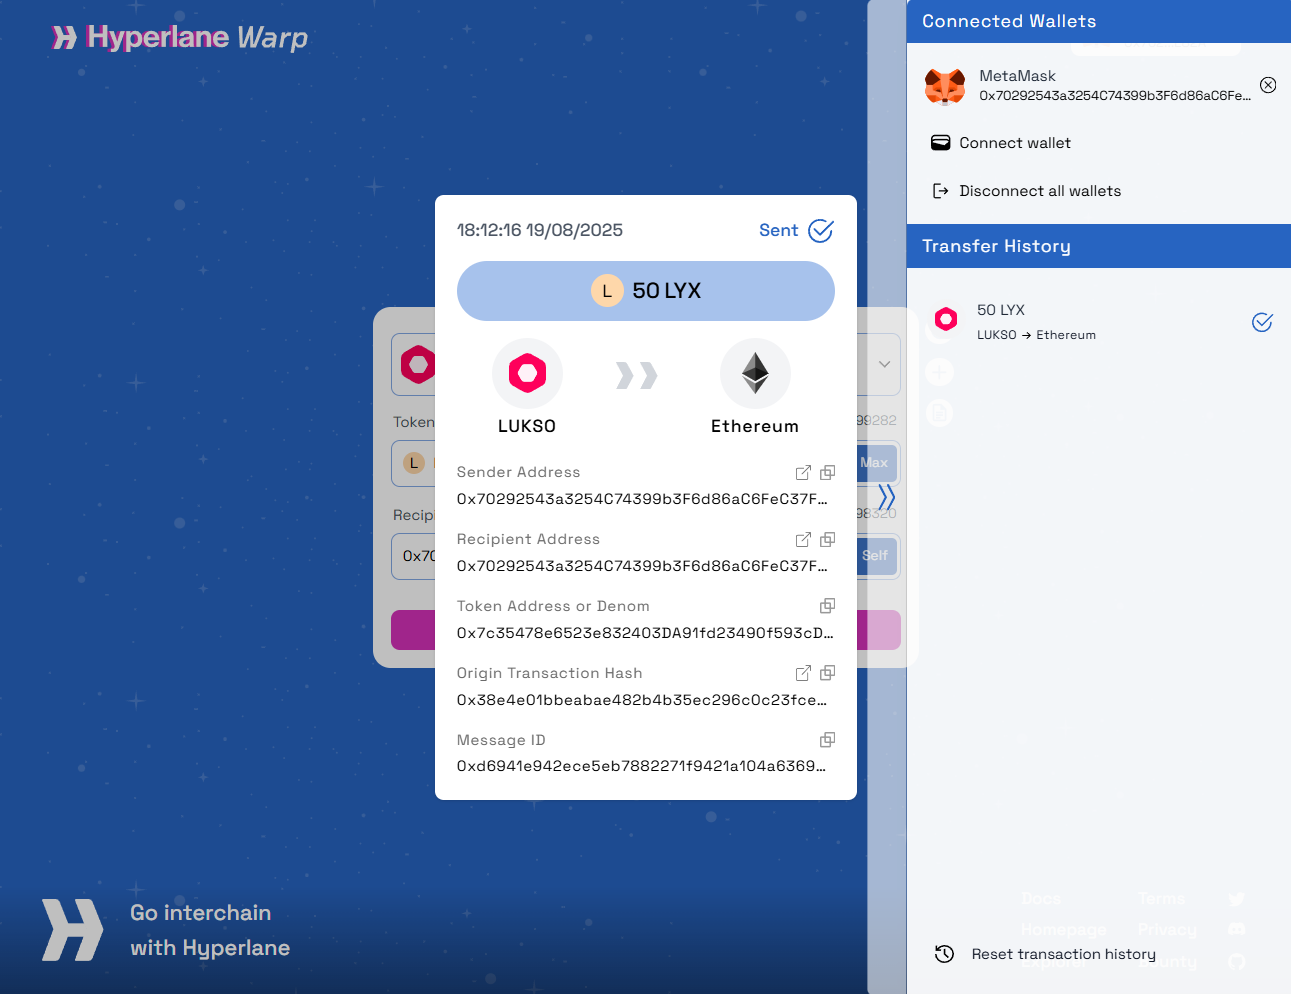
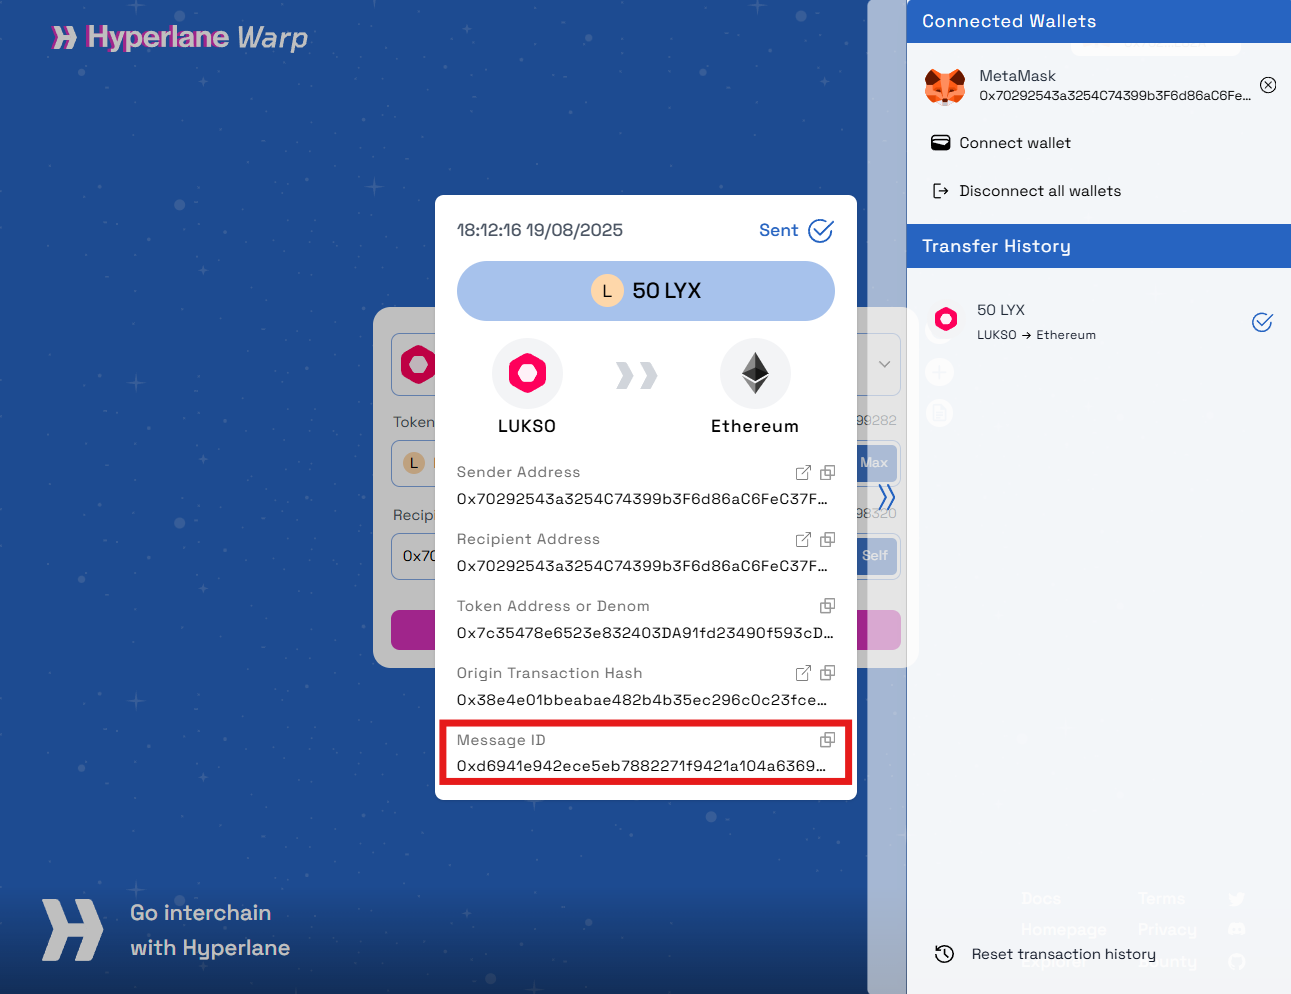
refactor: final adjustements + polished screenshots

Changed region(s): [[0.3408, 0.7173, 0.6816, 0.8109]]

diff --git a/src/components/ImportTokenSection/ImportTokenSection.module.scss b/src/components/ImportTokenSection/ImportTokenSection.module.scss
@@ -82,8 +82,12 @@
 }
 
 @keyframes spin {
-  0% { transform: rotate(0deg); }
-  100% { transform: rotate(360deg); }
+  0% {
+    transform: rotate(0deg);
+  }
+  100% {
+    transform: rotate(360deg);
+  }
 }
 
 // Status message styles
@@ -142,7 +146,8 @@
   box-shadow: 0 2px 8px rgba(0, 0, 0, 0.1);
   background: white;
 
-  th, td {
+  th,
+  td {
     padding: 16px;
     text-align: left;
     border-bottom: 1px solid #e2e8f0;
@@ -165,8 +170,6 @@
   tr:last-child td {
     border-bottom: none;
   }
-
-
 }
 
 .networkName {
@@ -178,21 +181,20 @@
 
 .contractAddress {
   font-family: 'Monaco', 'Menlo', 'Ubuntu Mono', monospace;
-  
+
   a {
     color: inherit;
     text-decoration: none;
-    
+
     &:hover {
       text-decoration: underline;
     }
   }
-  
+
   code {
     background: #f1f5f9;
     padding: 4px 8px;
     border-radius: 4px;
-    font-size: 12px;
     color: #475569;
     word-break: break-all;
   }
@@ -208,7 +210,7 @@
     font-size: 14px;
   }
 
-  .tokenTable th, 
+  .tokenTable th,
   .tokenTable td {
     padding: 12px 8px;
   }
@@ -286,7 +288,7 @@
   }
 
   .tokenTable td:before {
-    content: attr(data-label) ": ";
+    content: attr(data-label) ': ';
     position: absolute;
     left: 0;
     width: 30%;
@@ -297,15 +299,15 @@
   }
 
   .networkName:before {
-    content: "Network: ";
+    content: 'Network: ';
   }
 
   .contractAddress:before {
-    content: "Address: ";
+    content: 'Address: ';
   }
 
   .importButtonCell:before {
-    content: "";
+    content: '';
   }
 
   .importButtonCell {

diff --git a/src/components/ImportTokenSection/index.js b/src/components/ImportTokenSection/index.js
@@ -113,9 +113,8 @@ const ImportTokenSection = () => {
       <table className={styles.tokenTable}>
         <thead>
           <tr>
-            <th>Network Name</th>
-            <th>Bridged LYX Contract Address</th>
-            <th></th>
+            <th>Network</th>
+            <th colspan="2">Bridged LYX Contract Address</th>
           </tr>
         </thead>
         <tbody>

diff --git a/docs/general/how-to/use-lukso-bridge.md b/docs/general/how-to/use-lukso-bridge.md
@@ -9,159 +9,168 @@ import TabItem from '@theme/TabItem';
 
 # Use the LUKSO Bridge
 
-![Bridge UI](../../../static/img/general/how-to/use-lukso-bridge/bridge_home.png)
+<!-- TODO: put video demo of bridging -->
+<!-- ![Bridge UI](../../../static/img/general/how-to/use-lukso-bridge/bridge_home.png) -->
 
-This guide is for understanding how bridging works <strong>from</strong> and <strong>to</strong> LUKSO Network.
+This page will guide you on how to use the Hyperlane NEXUS dApp to bridge assets from and to the LUKSO Network.
+
+:::danger Warning
+
+**When bridging from LUKSO to other chains, DO NOT enter a UP address as the `recipient`**.
+
+Otherwise, you will lose access to your bridged tokens on Ethereum (or the destination chain you have selected). This is because Universal Profiles are currently only available on the LUKSO network.
+
+:::
 
 ## Prerequisites
 
-Before using the bridge, ensure you have:
+Before using the Hyperlane bridge, ensure you have:
 
-1. **A Web3 Wallet**: MetaMask, Rabby, or another compatible wallet
-2. **Network Configuration**: The correct network added to your wallet
-3. **Native Tokens for**:
-   - the amount you want to bridge
+1. **A Web3 Wallet**: MetaMask, Rabby, or any other compatible EVM wallet.
+2. **Network Configuration**: The correct network added to your wallet.
+3. **Native Tokens** (Ethereum mainnet requires ETH, LUKSO Mainnet requires LYX):
    - to pay for the gas fees
-   - to pay for the processing fee (Interchain Gas Payment)
+   - to pay for the processing fee ([Interchain Gas Payment](https://docs.hyperlane.xyz/docs/protocol/core/interchain-gas-payment#interchain-gas-payments))
 
-## How to Bridge Tokens
+<details>
+  <summary>What is the Interchain Gas Payment?</summary>
 
-**Visit [_Hyperlane NEXUS_](https://usenexus.org/) page** : Make sure to visit the official webpage:
+When performing a bridge transaction, Hyperlane require users to pay a processing fee called an _“interchain gas payment”_ (IGP) in the form of native tokens.
+
+These funds go directly to Hyperlane relayers that use them to pay for the gas fee when processing the final bridge transaction on the destination chain.
+
+Users can see the IGP amount required to pay in the UI before confirming the bridge transaction.
+
+Note that these fees are not accumulated by any specific parties. They are cross-chain bridging fee part of the Hyperlane cross-chain messaging protocol and solely used for processing bridge transactions.
+
+</details>
+
+## Go to [_Hyperlane NEXUS Bridge dApp_](https://usenexus.org/?origin=lukso&destination=ethereum&token=0xC210B2cB65ed3484892167F5e05F7ab496Ab0598)
 
 :::info
-LUKSO uses the Hyperlane's NEXUS Bridge for the bridging to/from LUKSO Mainnet.
+LUKSO uses the Hyperlane NEXUS Bridge dApp for bridging from/to LUKSO Mainnet.
+
+**Make sure to visit the official webpage at** [https://usenexus.org](https://usenexus.org)
 :::
 
 ![Bridge UI](../../../static/img/general/how-to/use-lukso-bridge/bridge_home.png)
 
-:::danger Important
+## How to bridge?
 
-As Universal Profiles are currently only available on LUKSO, please do not enter a UP address as the <strong>recipient</strong> when bridging from LUKSO to other networks.
+<Tabs>
+  <TabItem value="eoa" label={<h3>👝 Bridging from a web3 wallet</h3>} default>
+
+**1. Connect Your Wallet**: Connect your Web3 wallet (MetaMask, Rabby, etc.) to the bridge interface
+
+:::info
+
+Make sure you have the [LUKSO Mainnet added to your network in your wallet](/general/supported-wallets/wallet-support.md#is-there-a-faster-way).
 
 :::
 
-### Are you ⤵
+![Bridge UI](../../../static/img/general/how-to/use-lukso-bridge/bridge_connect_eoa.png)
 
-<Tabs>
-  <TabItem value="eoa" label={<h3>🌉 Bridging from another Web3 wallet?</h3>} default>
+**2. Select Networks**: Choose the **from** (source) and **to** (destination) networks
 
-1. **Connect Your Wallet**: Connect your Web3 wallet (MetaMask, Rabby, etc.) to the bridge interface
-   ![Bridge UI](../../../static/img/general/how-to/use-lukso-bridge/eoa_home.png)
+![Bridge UI](../../../static/img/general/how-to/use-lukso-bridge/eoa_from_to.png)
 
----
+**3. Select Tokens from the dropdown list**: Select **`LYX`**
 
-2. **Select Networks**: Choose the **from**(source) and **to**(destination) networks
-   ![Bridge UI](../../../static/img/general/how-to/use-lukso-bridge/eoa_from_to.png)
+![Bridge UI](../../../static/img/general/how-to/use-lukso-bridge/eoa_token.png)
 
----
+**4. Enter Amount**: Specify the amount of tokens to bridge
 
-3. **Select Tokens from the dropdown list**: Select **LYX**
-   ![Bridge UI](../../../static/img/general/how-to/use-lukso-bridge/eoa_token.png)
+![Bridge UI](../../../static/img/general/how-to/use-lukso-bridge/eoa_amount.png)
 
----
-
-4. **Enter Amount**: Specify the amount of tokens to bridge
-   ![Bridge UI](../../../static/img/general/how-to/use-lukso-bridge/eoa_amount.png)
-
----
-
-5. **Enter the Recipient Address**: Input the destination wallet address where tokens will be sent. Use the <strong>Self</strong> button if you're going to use the same wallet on the destination network.
+**5. Enter the Recipient Address**: Input the address of the wallet that will receive the tokens on the destination chain. You can also use the <strong>Self</strong> button if you want to bridge to the same wallet on the destination network.
 
 :::danger Using UP address as a recipient
 
-If you are not bridging <strong>to LUKSO</strong>, please do not use a Universal Profile address as a recipient!
+If you are bridging from LUKSO -> to Ethereum (or any other chain), **DO NOT use a Universal Profile address as `recipient`!** This would lead to losing access to your bridged tokens on the destination chain.
+
 :::
 
 ![Bridge UI](../../../static/img/general/how-to/use-lukso-bridge/eoa_destination.png)
 
----
+**6. Confirm Transaction**: Review and confirm the transaction in your wallet
 
-6. **Confirm Transaction**: Review and confirm the transaction in your wallet
+![Bridge UI](../../../static/img/general/how-to/use-lukso-bridge/eoa_send.png)
 
-   ![Bridge UI](../../../static/img/general/how-to/use-lukso-bridge/eoa_send.png)
+**7. Follow the status of your bridge transaction**: Bridge transactions typically take a few minutes
 
----
+:::tip Check the status of your transaction
 
-7. **Follow your status**: Bridge transactions typically take a few minutes
+Visit the [🔍 Hyperlane Explorer](https://explorer.hyperlane.xyz/?origin=lukso), select LUKSO as _"Origin"_ and paste your Message ID to find your bridge transaction and see its status (if it is still being processed or it has been delivered on the destination chain).
 
-:::tip Check your status
-Visit [Hyperlane Explorer](https://explorer.hyperlane.xyz/) with your Message ID to see the status of your transaction.
 :::
 
 ![Bridge UI](../../../static/img/general/how-to/use-lukso-bridge/eoa_message.png)
 
----
+![Bridge UI](../../../static/img/general/how-to/use-lukso-bridge/hyperlane_explorer_message_id_field.png)
 
-8. **Import Token**: Use the buttons [**below**](#import-bridged-lyx-hyperlane) to add the bridged token to your wallet
+![Bridge UI](../../../static/img/general/how-to/use-lukso-bridge/hyperlane_explorer_bridge_tx_details.png)
 
   </TabItem>
-  <TabItem value="up" label={<h3>Bridging from a 🆙?</h3>}>
+  <TabItem value="up" label={<h3>🆙 Bridging from a Universal Profile</h3>}>
 
-1. **Connect Your Universal Profile**: Connect your UP through the Universal Profile Extension
-   ![Bridge UI](../../../static/img/general/how-to/use-lukso-bridge/bridge_connect.png)
+**1. Connect Your Universal Profile**: Connect your UP through the Universal Profile Extension
 
----
+![Bridge UI](../../../static/img/general/how-to/use-lukso-bridge/bridge_connect_up.png)
 
-2. **Select Networks**: Choose the **from**(source) and **to**(destination) networks
-   ![Bridge UI](../../../static/img/general/how-to/use-lukso-bridge/up_from_to.png)
+**2. Select Networks**: Choose the **from**(source) and **to**(destination) networks
 
----
+![Bridge UI](../../../static/img/general/how-to/use-lukso-bridge/up_from_to.png)
 
-3. **Select Tokens from the dropdown list**: Select **LYX**
-   ![Bridge UI](../../../static/img/general/how-to/use-lukso-bridge/eoa_token.png)
+**3. Select Tokens from the dropdown list**: Select **`LYX`**
 
----
+![Bridge UI](../../../static/img/general/how-to/use-lukso-bridge/up_token.png)
 
-4. **Enter Amount**: Specify the amount of tokens to bridge
-   ![Bridge UI](../../../static/img/general/how-to/use-lukso-bridge/up_amount.png)
+**4. Enter Amount**: Specify the amount of tokens to bridge
 
----
+![Bridge UI](../../../static/img/general/how-to/use-lukso-bridge/up_amount.png)
 
-5. **Enter the Recipient Address**: Input the destination address
-
-:::danger Important
-
-As Universal Profiles are on LUKSO, please do not enter a UP address as recipient when bridging from LUKSO! This action might cause to lose your tokens.
-
-:::
+**5. Enter the Recipient Address**: Input the destination address
 
 ![Bridge UI](../../../static/img/general/how-to/use-lukso-bridge/up_destination.png)
 
----
+:::danger Using UP address as a recipient
 
-6. **Confirm Transaction**: Review and approve the transaction using your Universal Profile
-   ![Bridge UI](../../../static/img/general/how-to/use-lukso-bridge/eoa_send.png)
+If you are bridging from LUKSO -> to Ethereum (or any other chain), **DO NOT use a Universal Profile address as `recipient`!** This would lead to losing access to your bridged tokens on the destination chain.
 
----
+![Bridge UI](../../../static/img/general/how-to/use-lukso-bridge/up_destination_warning.png)
 
-7. **Follow your status**: Bridge transactions typically take a few minutes
+:::
 
-:::tip Check your status
-Visit [Hyperlane Explorer](https://explorer.hyperlane.xyz/) with your Message ID to see the status of your transaction.
+**6. Confirm Transaction**: Review and approve the transaction using your Universal Profile
+
+![Bridge UI](../../../static/img/general/how-to/use-lukso-bridge/up_send.png)
+
+**7. Follow the status of your bridge transaction**: Bridge transactions typically take a few minutes
+
+:::tip Check the status of your transaction
+
+Visit the [🔍 Hyperlane Explorer](https://explorer.hyperlane.xyz/?origin=lukso), select LUKSO as _"Origin"_ and paste your Message ID to find your bridge transaction and see its status (if it is still being processed or it has been delivered on the destination chain).
+
 :::
 
 ![Bridge UI](../../../static/img/general/how-to/use-lukso-bridge/eoa_message.png)
 
----
+![Bridge UI](../../../static/img/general/how-to/use-lukso-bridge/hyperlane_explorer_message_id_field.png)
 
-8. **Import Token**: Use the buttons [**below**](#import-bridged-lyx-hyperlane) to add the bridged token to your wallet
+![Bridge UI](../../../static/img/general/how-to/use-lukso-bridge/hyperlane_explorer_bridge_tx_details.png)
 
   </TabItem>
 </Tabs>
 
-![Bridge UI](../../../static/img/general/how-to/use-lukso-bridge/import_token.gif)
+## Import `Bridged LYX` to your wallet
 
-:::tip Import Bridged Tokens to Your Wallet
+`Bridged LUKSO (Hyperlane)` (token symbol: `LYX`) is an ERC20 token on Ethereum. After bridging, you need to **import this token to your wallet** to see it under your list of tokens and to see your updated balance.
 
-After bridging tokens, you need to **import Bridged LYX to your wallet** to see your balance.
-
-:::
-
-## Import Bridged LYX (Hyperlane)
-
-Bridged LYX (Hyperlane) is an ERC20 token on Ethereum. It needs to be imported in your wallet and will be visible under your list of tokens.
+Use the buttons [**below**](#import-wlyx-to-wallet) to add the bridged token easily to your wallet.
 
 <ImportTokenSection />
+
+![Bridge UI](../../../static/img/general/how-to/use-lukso-bridge/import_token.gif)
 
 ## Important Notes
 
